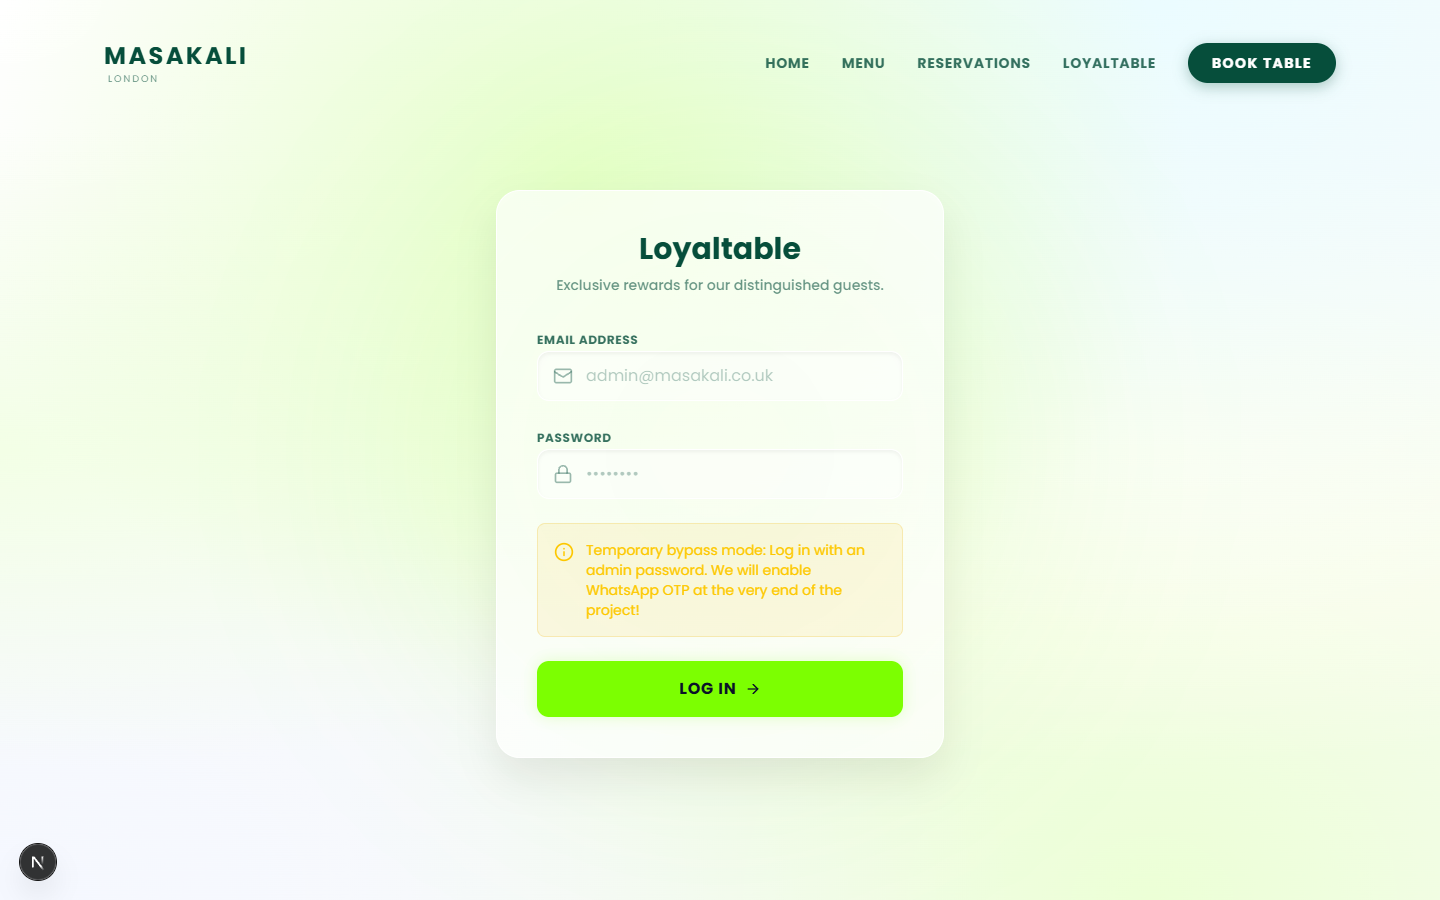
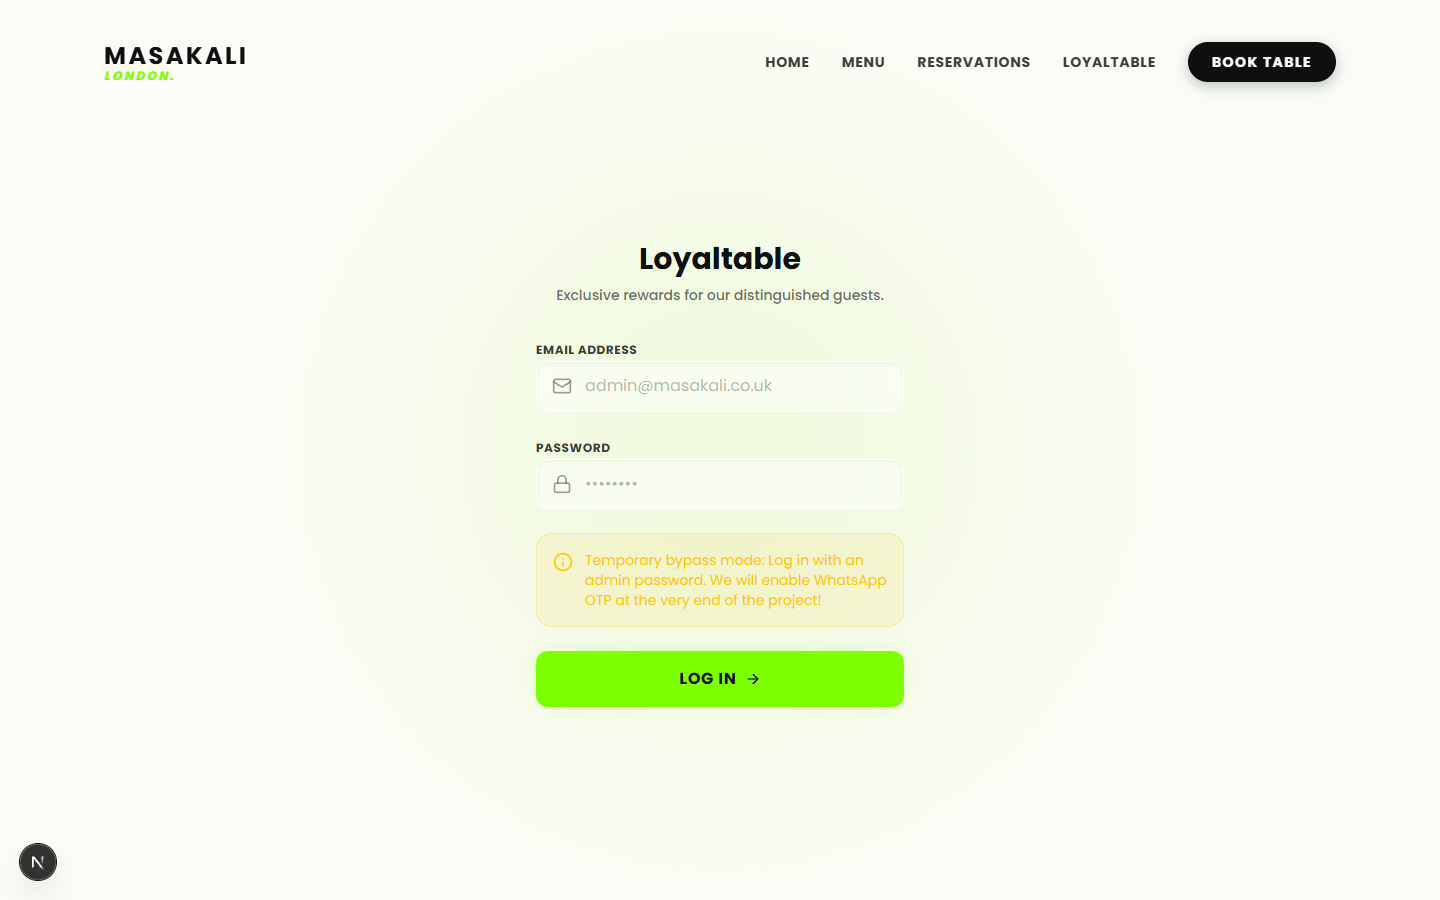
Fix framer-motion margin bug and upgrade loyaltable wallet to dark glassmorphism

diff --git a/src/app/loyaltable/page.tsx b/src/app/loyaltable/page.tsx
@@ -45,41 +45,42 @@ export default async function LoyaltableDashboard() {
           
           {/* Main Wallet Card (Apple Wallet Style) */}
           <div className="lg:col-span-5 relative group perspective">
-            <div className="wallet-card w-full aspect-[1/1.5] sm:aspect-[1.6/1] lg:aspect-[1/1.6] p-8 flex flex-col justify-between relative overflow-hidden transition-transform duration-500 transform-style-3d group-hover:rotate-y-2 group-hover:rotate-x-2">
+            <div className="w-full aspect-[1/1.5] sm:aspect-[1.6/1] lg:aspect-[1/1.6] p-8 flex flex-col justify-between relative overflow-hidden transition-all duration-700 transform-style-3d group-hover:rotate-y-4 group-hover:-rotate-x-4 bg-[#0F0F0F]/90 backdrop-blur-3xl border border-white/20 rounded-[40px] shadow-[0_40px_80px_rgba(0,0,0,0.3),inset_0_2px_10px_rgba(255,255,255,0.2)]">
               
-              {/* Card Background Pattern */}
-              <div className="absolute inset-0 opacity-10 bg-[radial-gradient(circle_at_center,_var(--tw-gradient-stops))] from-[#0F0F0F] via-transparent to-transparent bg-[length:20px_20px]"></div>
+              {/* Card Background Glow & Pattern */}
+              <div className="absolute -top-20 -right-20 w-64 h-64 bg-[#7CFF01] rounded-full blur-[80px] opacity-20 pointer-events-none"></div>
+              <div className="absolute inset-0 opacity-20 bg-[radial-gradient(circle_at_center,_var(--tw-gradient-stops))] from-white/10 via-transparent to-transparent bg-[length:20px_20px]"></div>
               
               <div className="relative z-10 flex justify-between items-start">
                 <div className="flex items-center gap-2">
-                  <div className="w-8 h-8 rounded-full bg-[#0F0F0F] flex items-center justify-center">
-                    <Crown className="w-4 h-4 text-white" />
+                  <div className="w-10 h-10 rounded-full bg-white/10 flex items-center justify-center border border-white/20 shadow-[inset_0_2px_4px_rgba(255,255,255,0.3)]">
+                    <Crown className="w-5 h-5 text-[#7CFF01]" />
                   </div>
-                  <span className="font-serif font-bold text-[#0F0F0F] tracking-widest uppercase">Masakali</span>
+                  <span className="font-serif font-bold text-white tracking-widest uppercase text-lg drop-shadow-md">Masakali</span>
                 </div>
                 <div className="text-right">
-                  <p className="text-[0.65rem] font-bold tracking-widest text-[#0F0F0F]/50 uppercase mb-1">Tier</p>
-                  <p className="text-sm font-bold text-[#0F0F0F] uppercase tracking-wider bg-[#7CFF01]/20 px-3 py-1 rounded-full border border-[#7CFF01]/50">{userProfile.tier}</p>
+                  <p className="text-[0.65rem] font-bold tracking-widest text-white/50 uppercase mb-1">Tier</p>
+                  <p className="text-xs font-bold text-[#0F0F0F] uppercase tracking-wider bg-[#7CFF01] px-3 py-1 rounded-full shadow-[0_0_15px_rgba(124,255,1,0.4)]">{userProfile.tier}</p>
                 </div>
               </div>
 
               <div className="relative z-10 mt-auto mb-12 sm:mb-8 lg:mb-12">
-                <p className="text-xs font-bold tracking-widest text-[#0F0F0F]/50 uppercase mb-2">Available Balance</p>
-                <p className="text-5xl sm:text-6xl font-serif font-bold text-[#0F0F0F] tracking-tight">{userProfile.walletBalance}</p>
-                <div className="flex items-center gap-2 mt-4 text-sm font-medium text-[#0F0F0F]/70">
+                <p className="text-xs font-bold tracking-widest text-white/50 uppercase mb-2">Available Balance</p>
+                <p className="text-5xl sm:text-6xl font-serif font-bold text-white tracking-tight drop-shadow-lg">{userProfile.walletBalance}</p>
+                <div className="flex items-center gap-2 mt-4 text-sm font-medium text-white/80">
                   <Star className="w-4 h-4 fill-[#7CFF01] text-[#7CFF01]" />
                   <span>{userProfile.points.toLocaleString()} Points</span>
                 </div>
               </div>
 
-              <div className="relative z-10 flex justify-between items-end border-t border-[#0F0F0F]/10 pt-6">
+              <div className="relative z-10 flex justify-between items-end border-t border-white/10 pt-6">
                 <div>
-                  <p className="text-[0.65rem] font-bold tracking-widest text-[#0F0F0F]/50 uppercase mb-1">Member Since</p>
-                  <p className="text-sm font-mono text-[#0F0F0F]">2026</p>
+                  <p className="text-[0.65rem] font-bold tracking-widest text-white/50 uppercase mb-1">Member Since</p>
+                  <p className="text-sm font-mono text-white/90">2026</p>
                 </div>
-                <div className="flex gap-1">
+                <div className="flex gap-1.5 opacity-50">
                   {[1, 2, 3, 4].map(i => (
-                    <div key={i} className="w-1.5 h-1.5 rounded-full bg-[#0F0F0F]/20"></div>
+                    <div key={i} className="w-2 h-2 rounded-full bg-white shadow-[0_0_5px_white]"></div>
                   ))}
                 </div>
               </div>

diff --git a/src/app/page.tsx b/src/app/page.tsx
@@ -171,7 +171,7 @@ export default function Home() {
               <motion.div 
                 initial={{ opacity: 0, y: 30 }}
                 whileInView={{ opacity: 1, y: 0 }}
-                viewport={{ once: true, margin: "-100px" }}
+                viewport={{ once: true }}
                 transition={{ delay: idx * 0.1, duration: 0.8, type: "spring", bounce: 0.4 }}
                 className="glass-card p-8 hover:shadow-deep hover:border-[#7CFF01]/50 transition-all duration-500 cursor-pointer h-full flex flex-col perspective-1000 transform-style-3d hover:-translate-y-2"
               >
@@ -244,7 +244,7 @@ export default function Home() {
                 key={idx}
                 initial={{ opacity: 0, scale: 0.95 }}
                 whileInView={{ opacity: 1, scale: 1 }}
-                viewport={{ once: true, margin: "-100px" }}
+                viewport={{ once: true }}
                 transition={{ duration: 0.8, type: "spring", bounce: 0.4 }}
                 className="glass-card p-6 hover:shadow-deep hover:border-[#7CFF01]/50 transition-all duration-500 group relative perspective-1000 transform-style-3d hover:-translate-y-2"
               >
@@ -281,7 +281,7 @@ export default function Home() {
               key={idx} 
               initial={{ opacity: 0, y: 30 }}
               whileInView={{ opacity: 1, y: 0 }}
-              viewport={{ once: true, margin: "-50px" }}
+              viewport={{ once: true }}
               transition={{ delay: idx * 0.15, duration: 0.8, type: "spring" }}
               className="glass-card p-8 hover:shadow-deep transition-all duration-500 transform hover:-translate-y-2"
             >